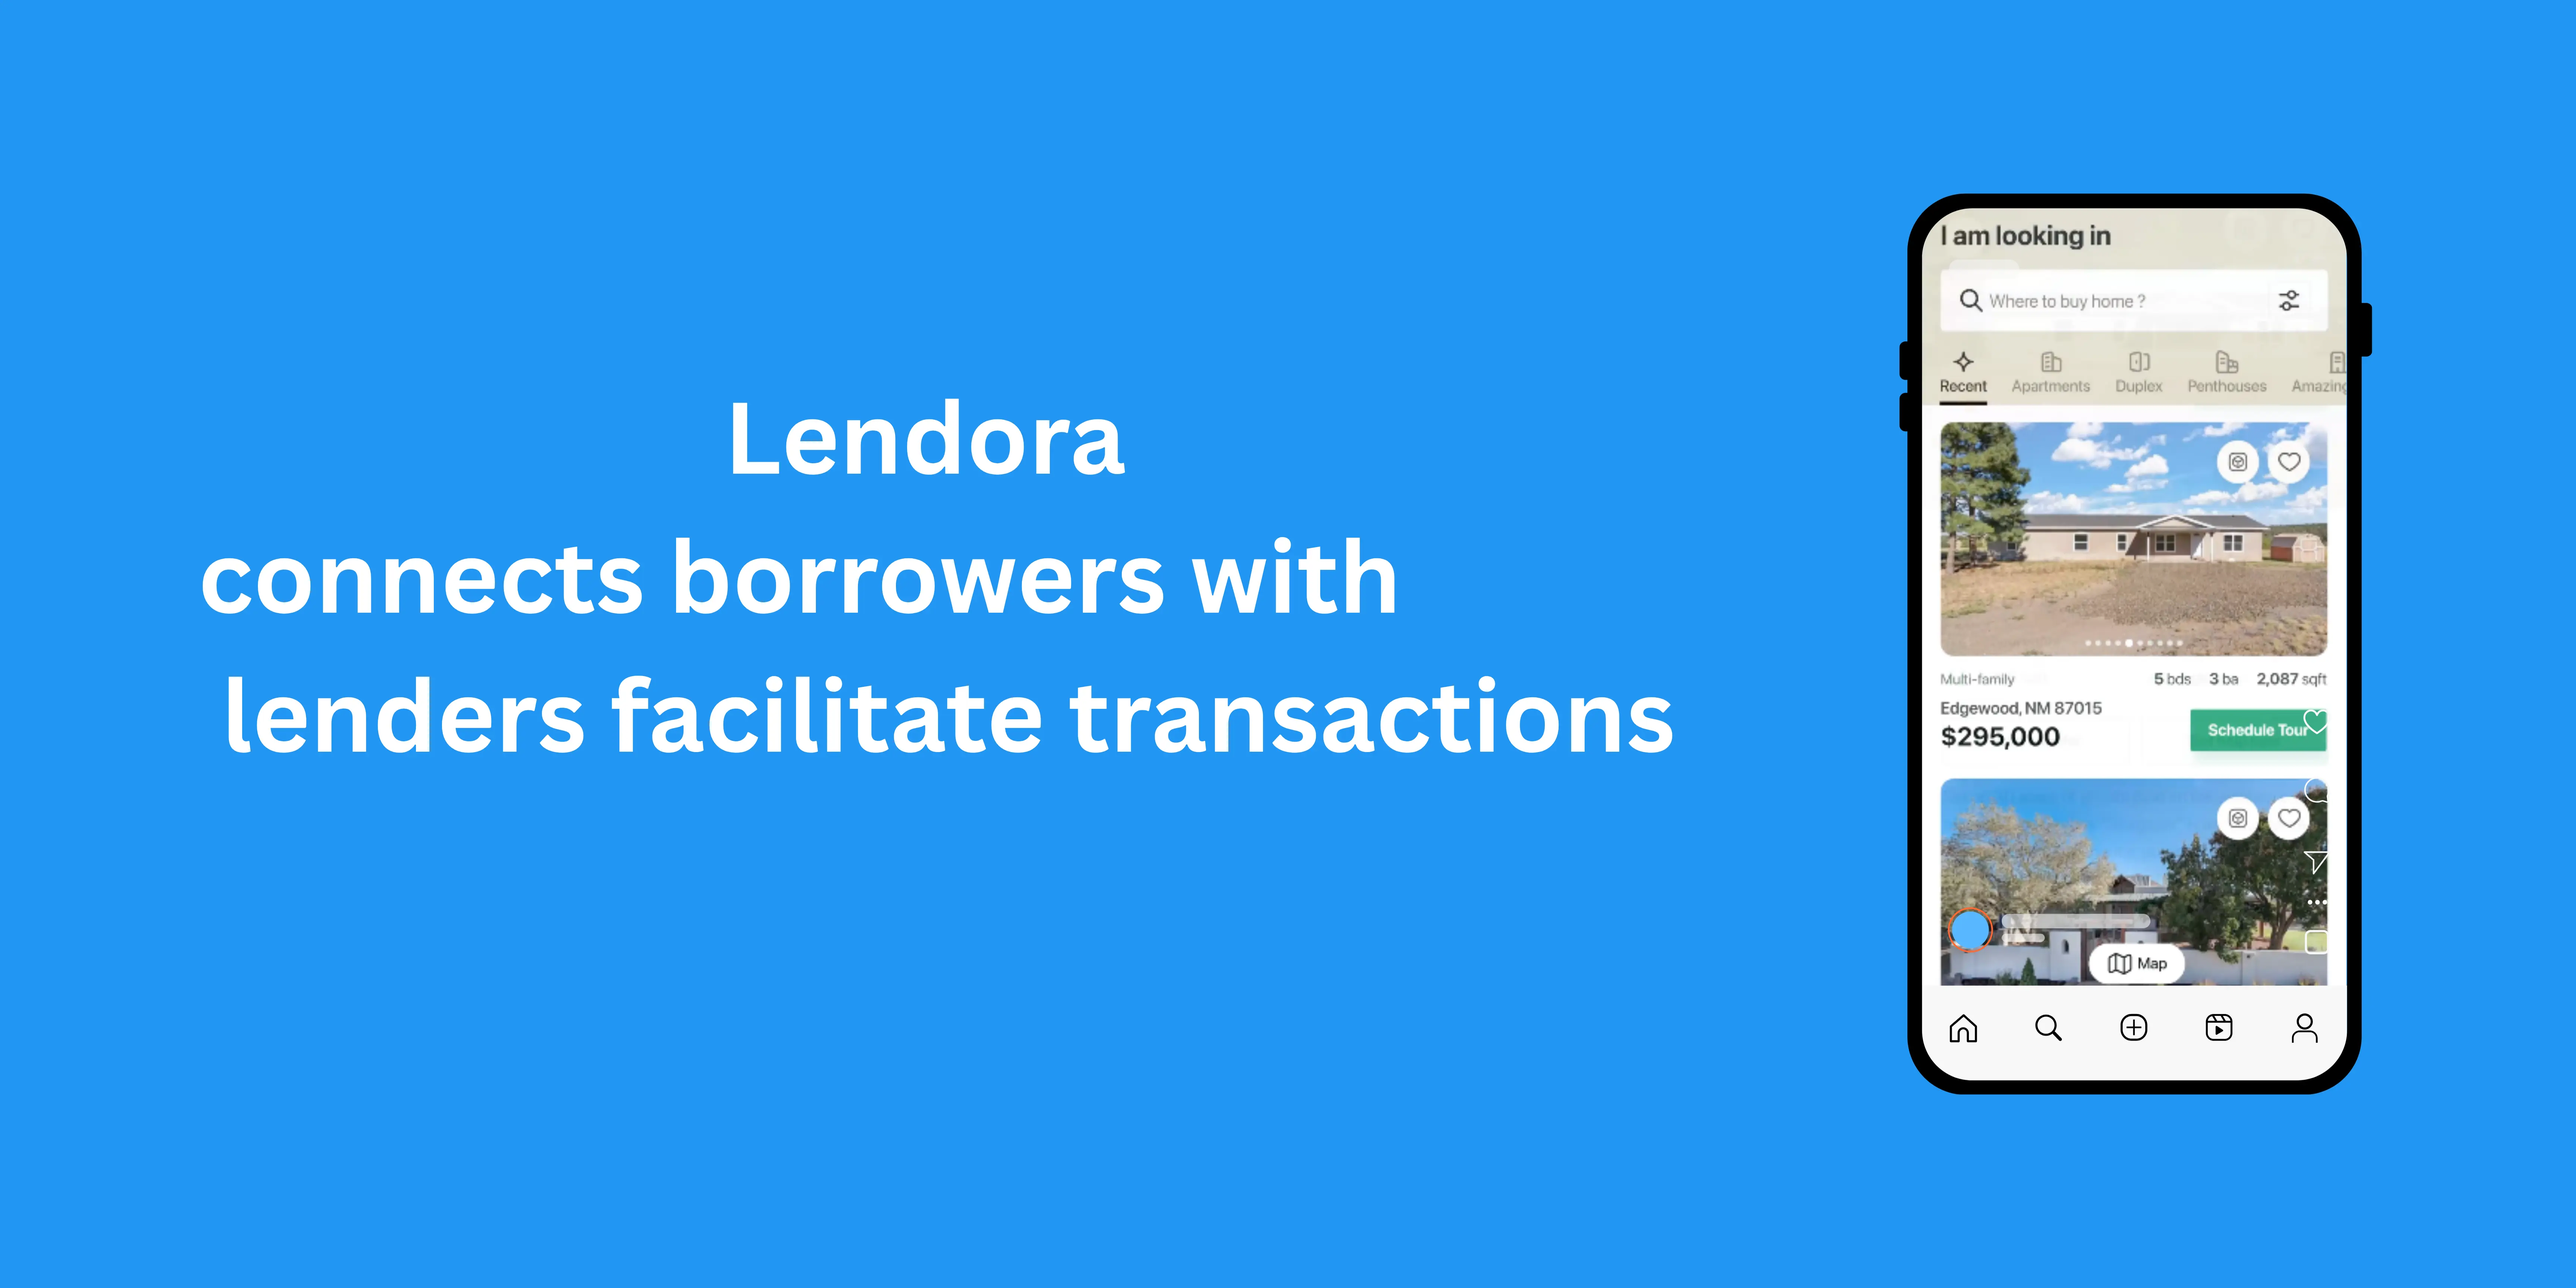
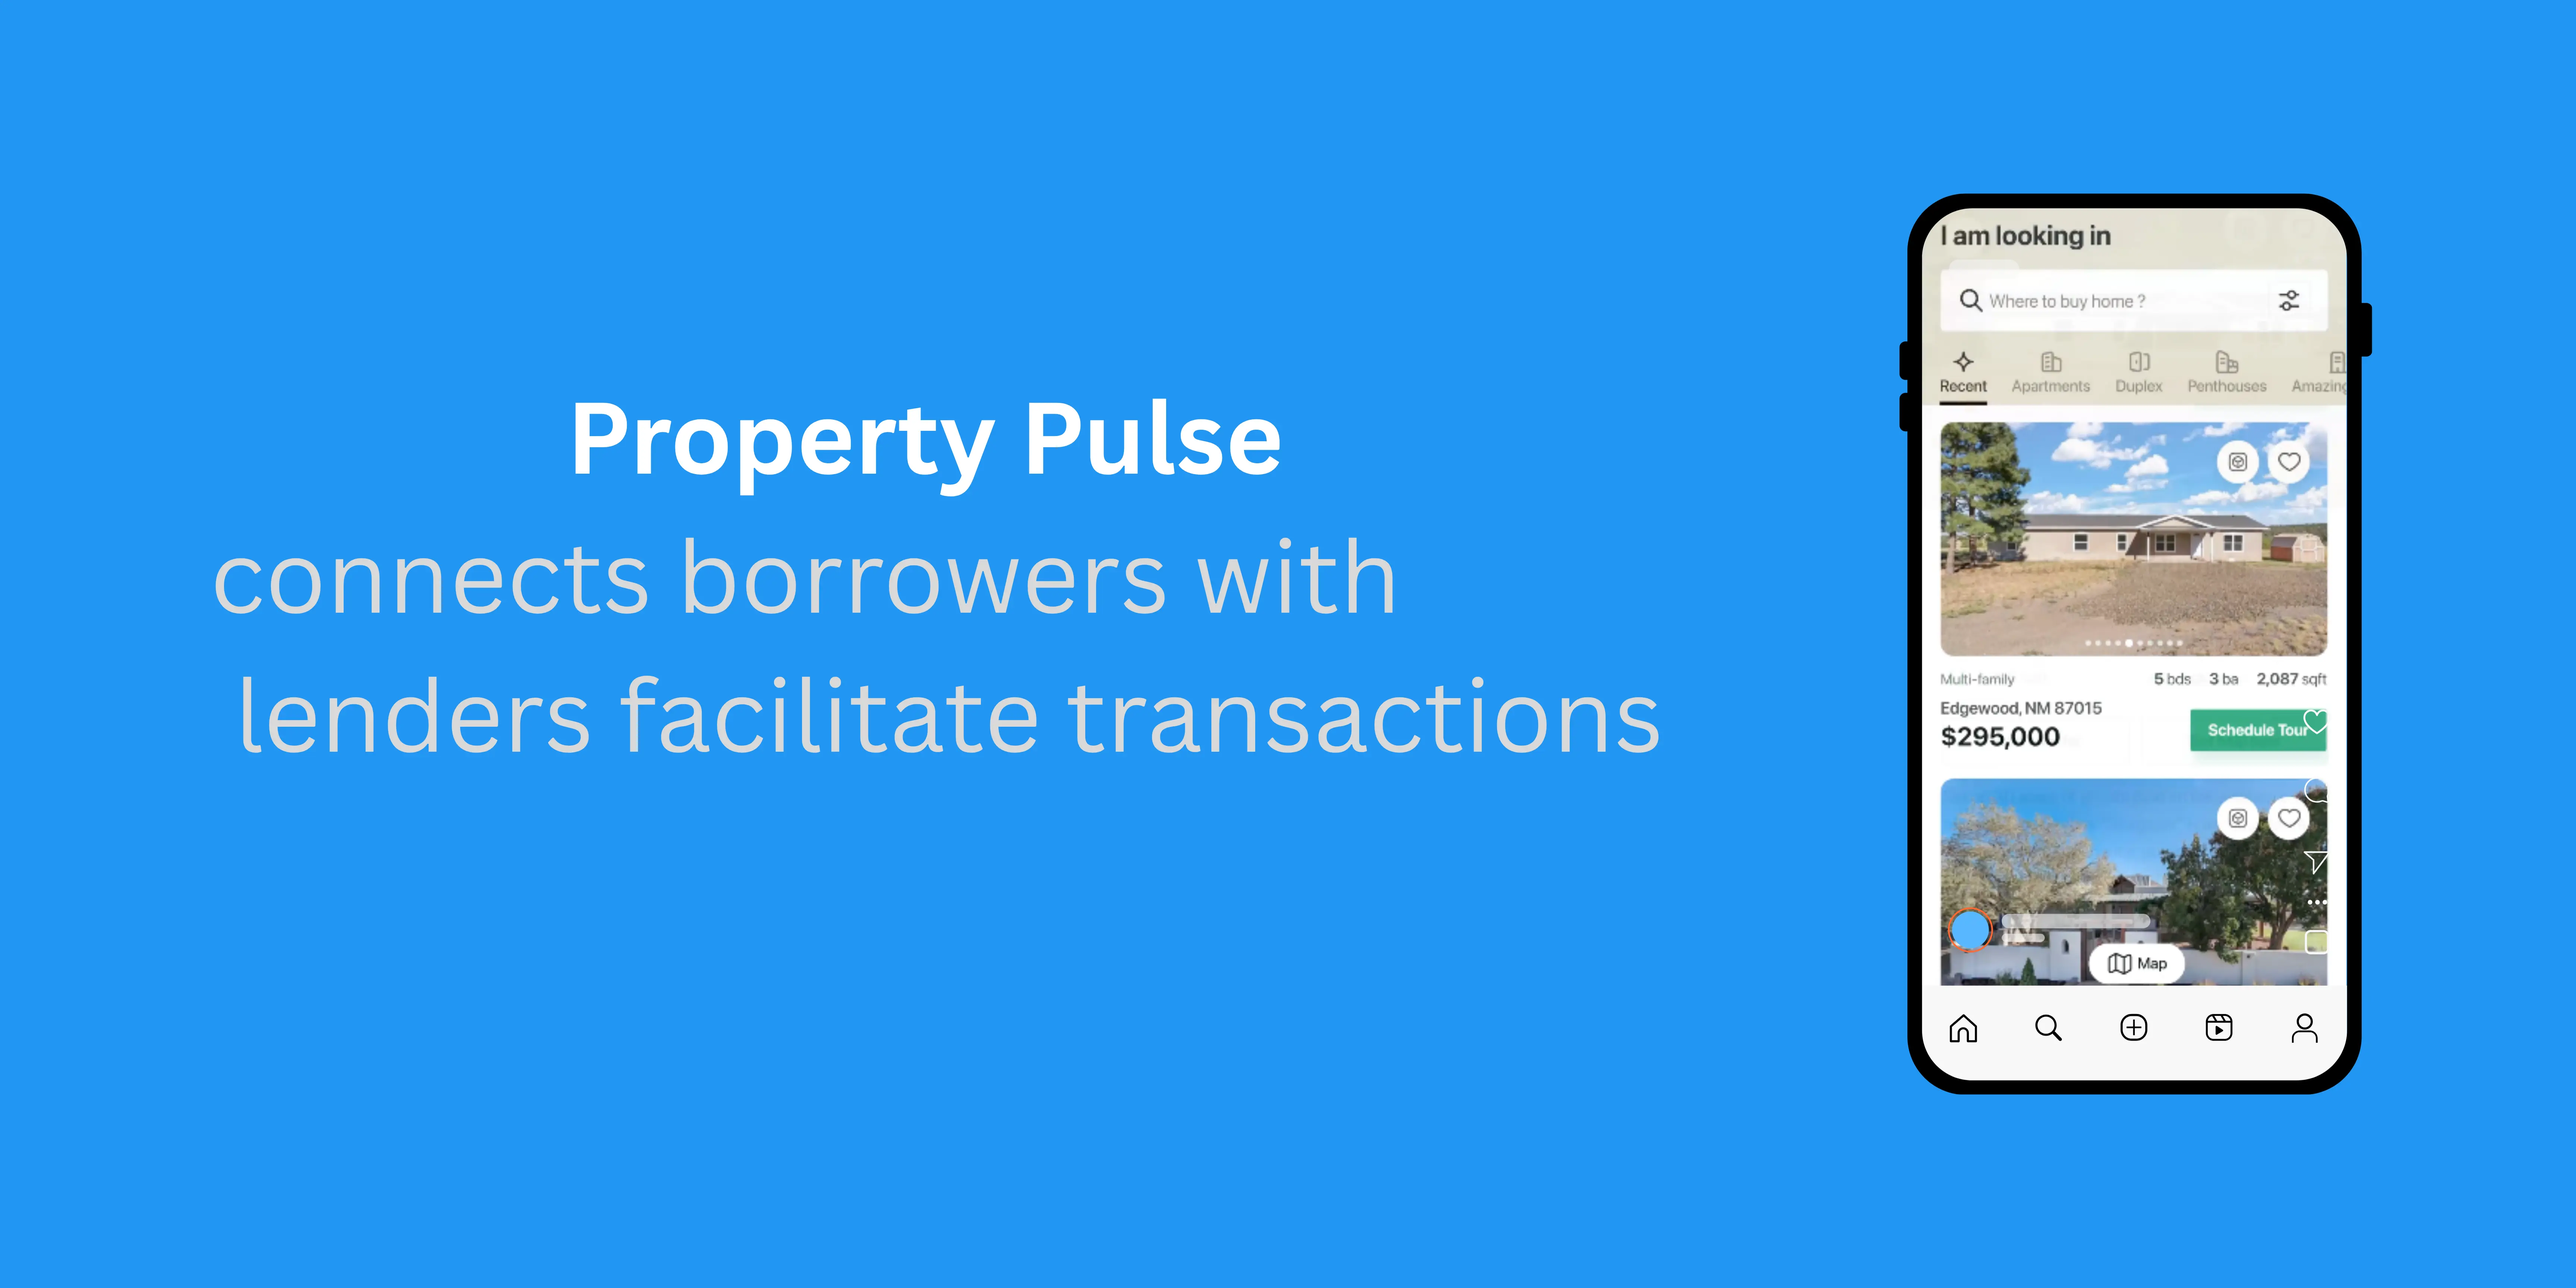
revert: change project name

Changed region(s): [[0.0625, 0.5312, 0.6562, 0.5938], [0.0625, 0.4062, 0.5625, 0.5], [0.2188, 0.3125, 0.5, 0.375]]

diff --git a/src/constants/portfolio.data.ts b/src/constants/portfolio.data.ts
@@ -106,13 +106,13 @@ export const portfolioData: PortfolioData = {
       thumbnail: "/images/projects/volvet.webp",
     },
     {
-      title: "Lendora",
+      title: "Property Pulse",
       description:
-        "Lendora is a real estate platform that connects borrowers with lenders to facilitate loan transactions.",
+        "Property Pulse is a real estate platform that connects borrowers with lenders to facilitate loan transactions.",
       techStack: ["Nest JS", "Prisma", "React Native", "Expo"],
       link: "https://github.com/mahede182/real-estate-assessment",
       github: "https://github.com/mahede182/real-estate-assessment",
-      thumbnail: "/images/projects/lendora.webp",
+      thumbnail: "/images/projects/Property Pulse.webp",
     },
 
   ],
